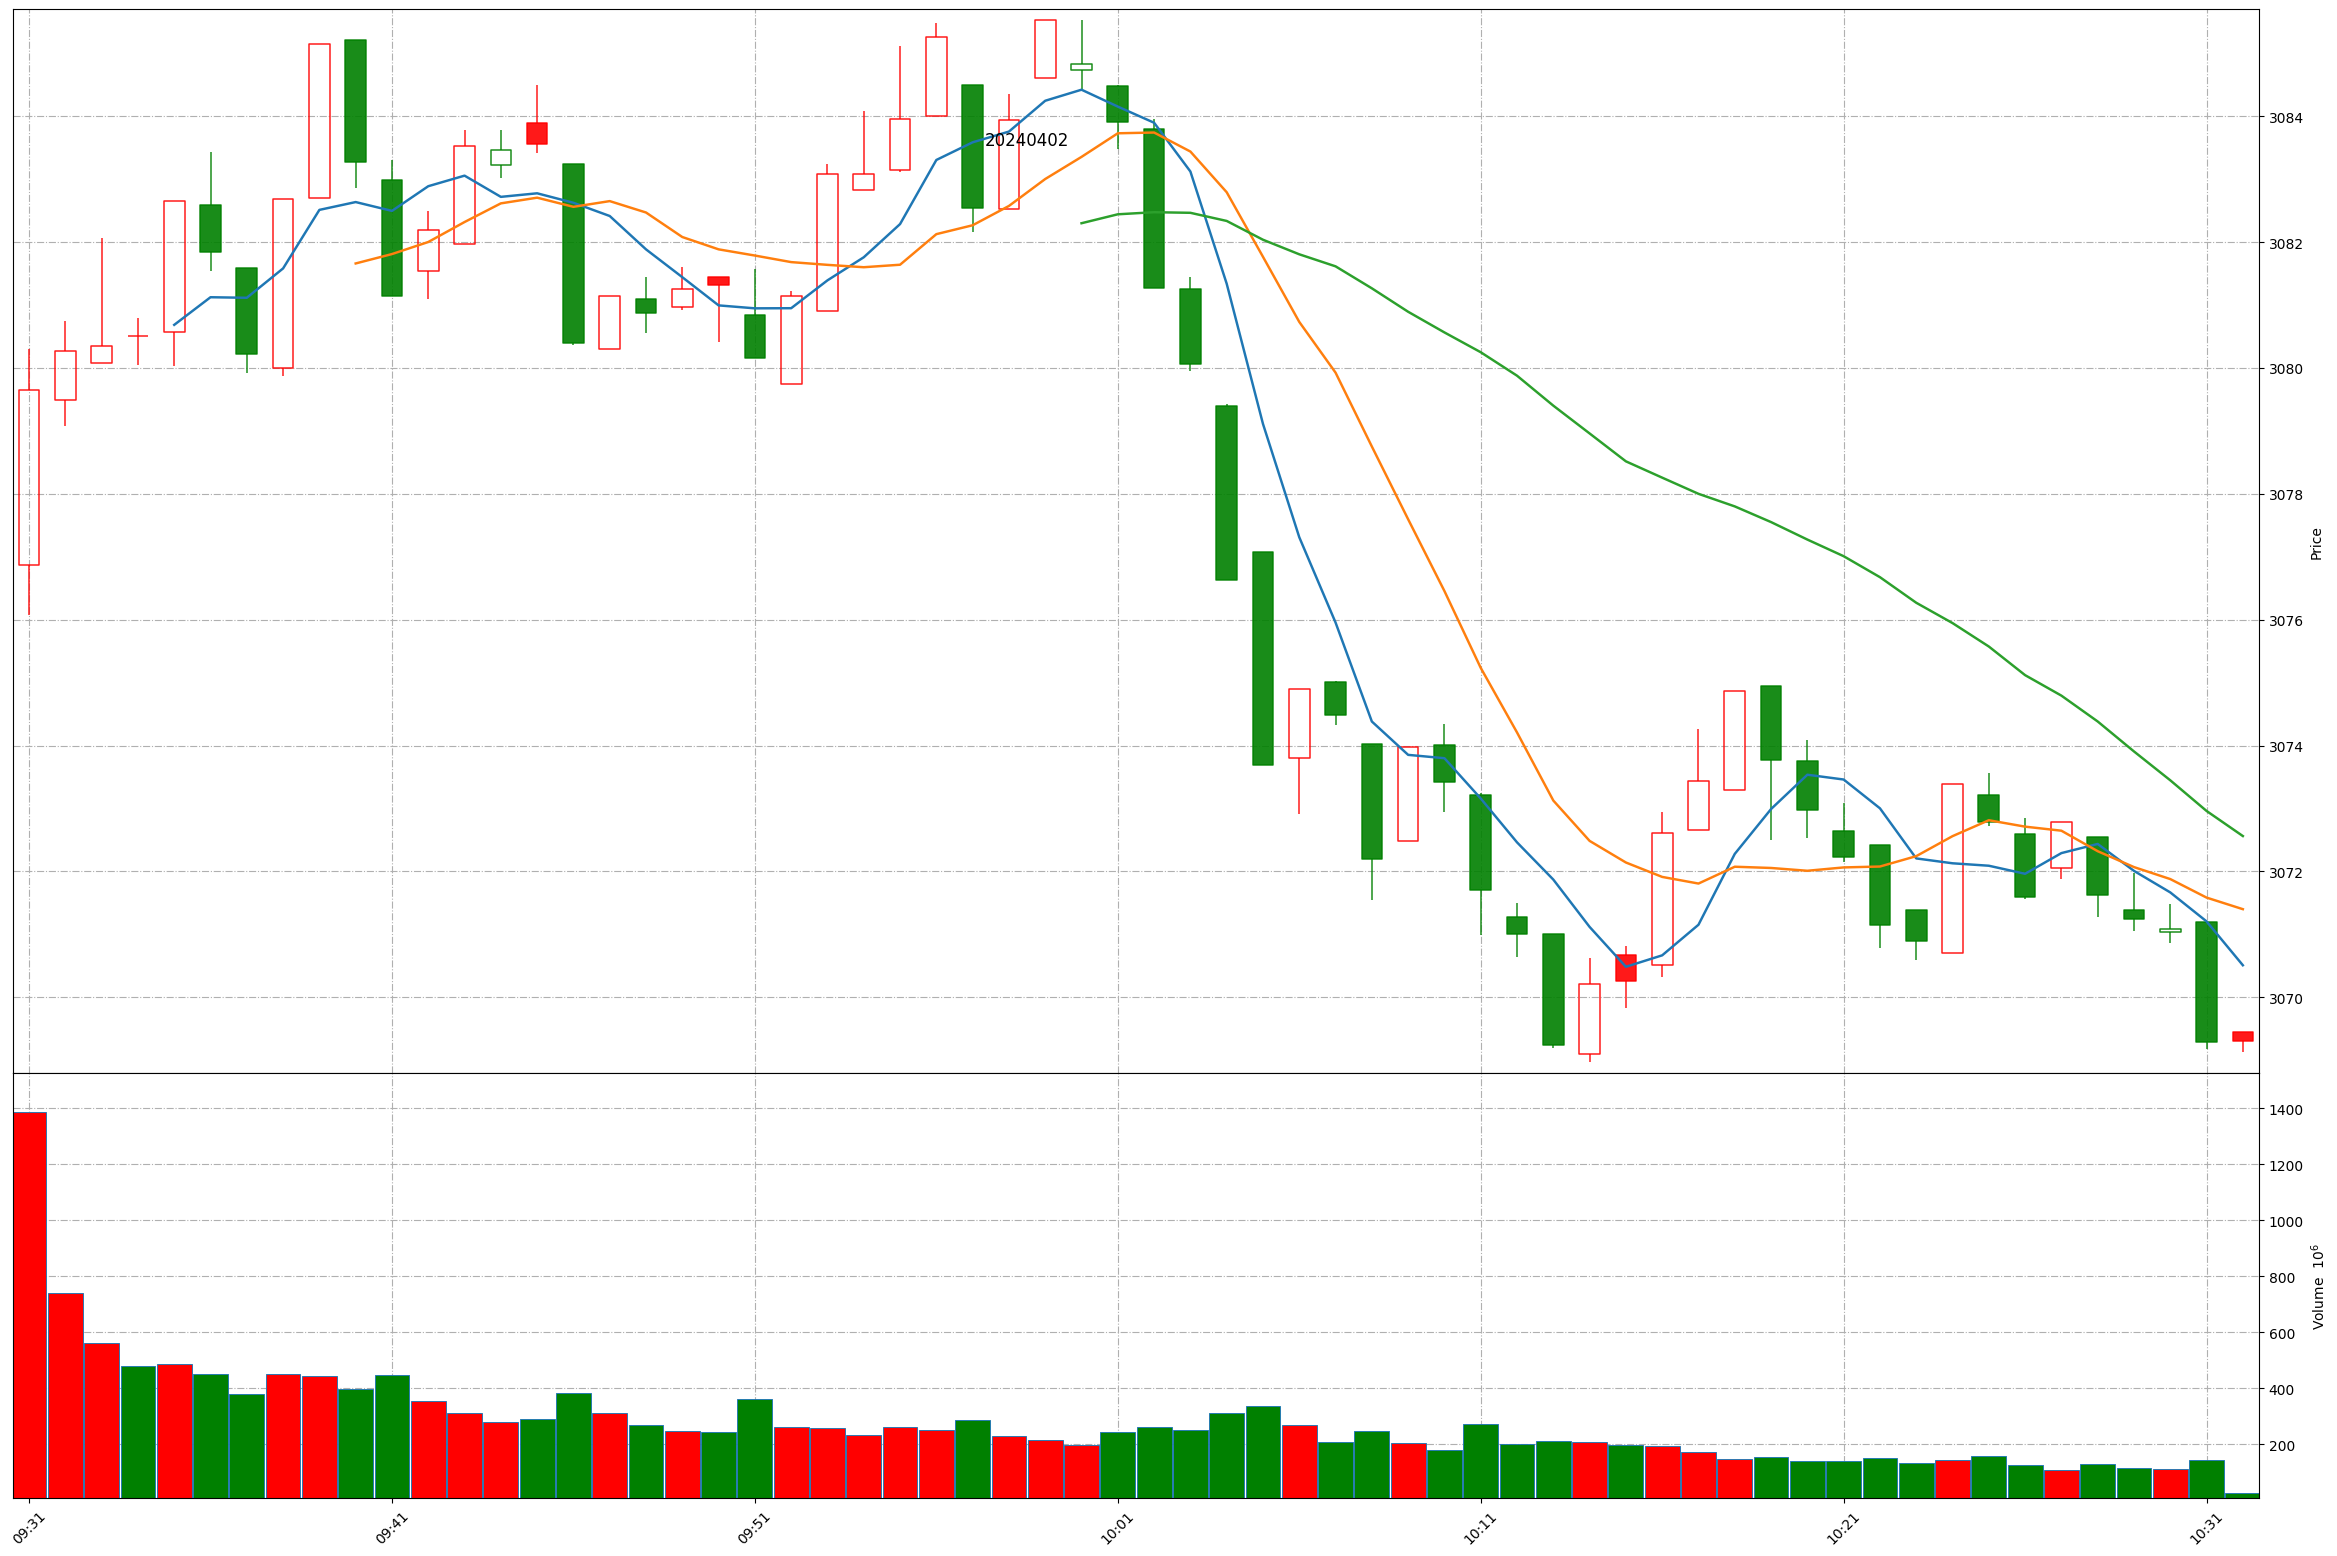
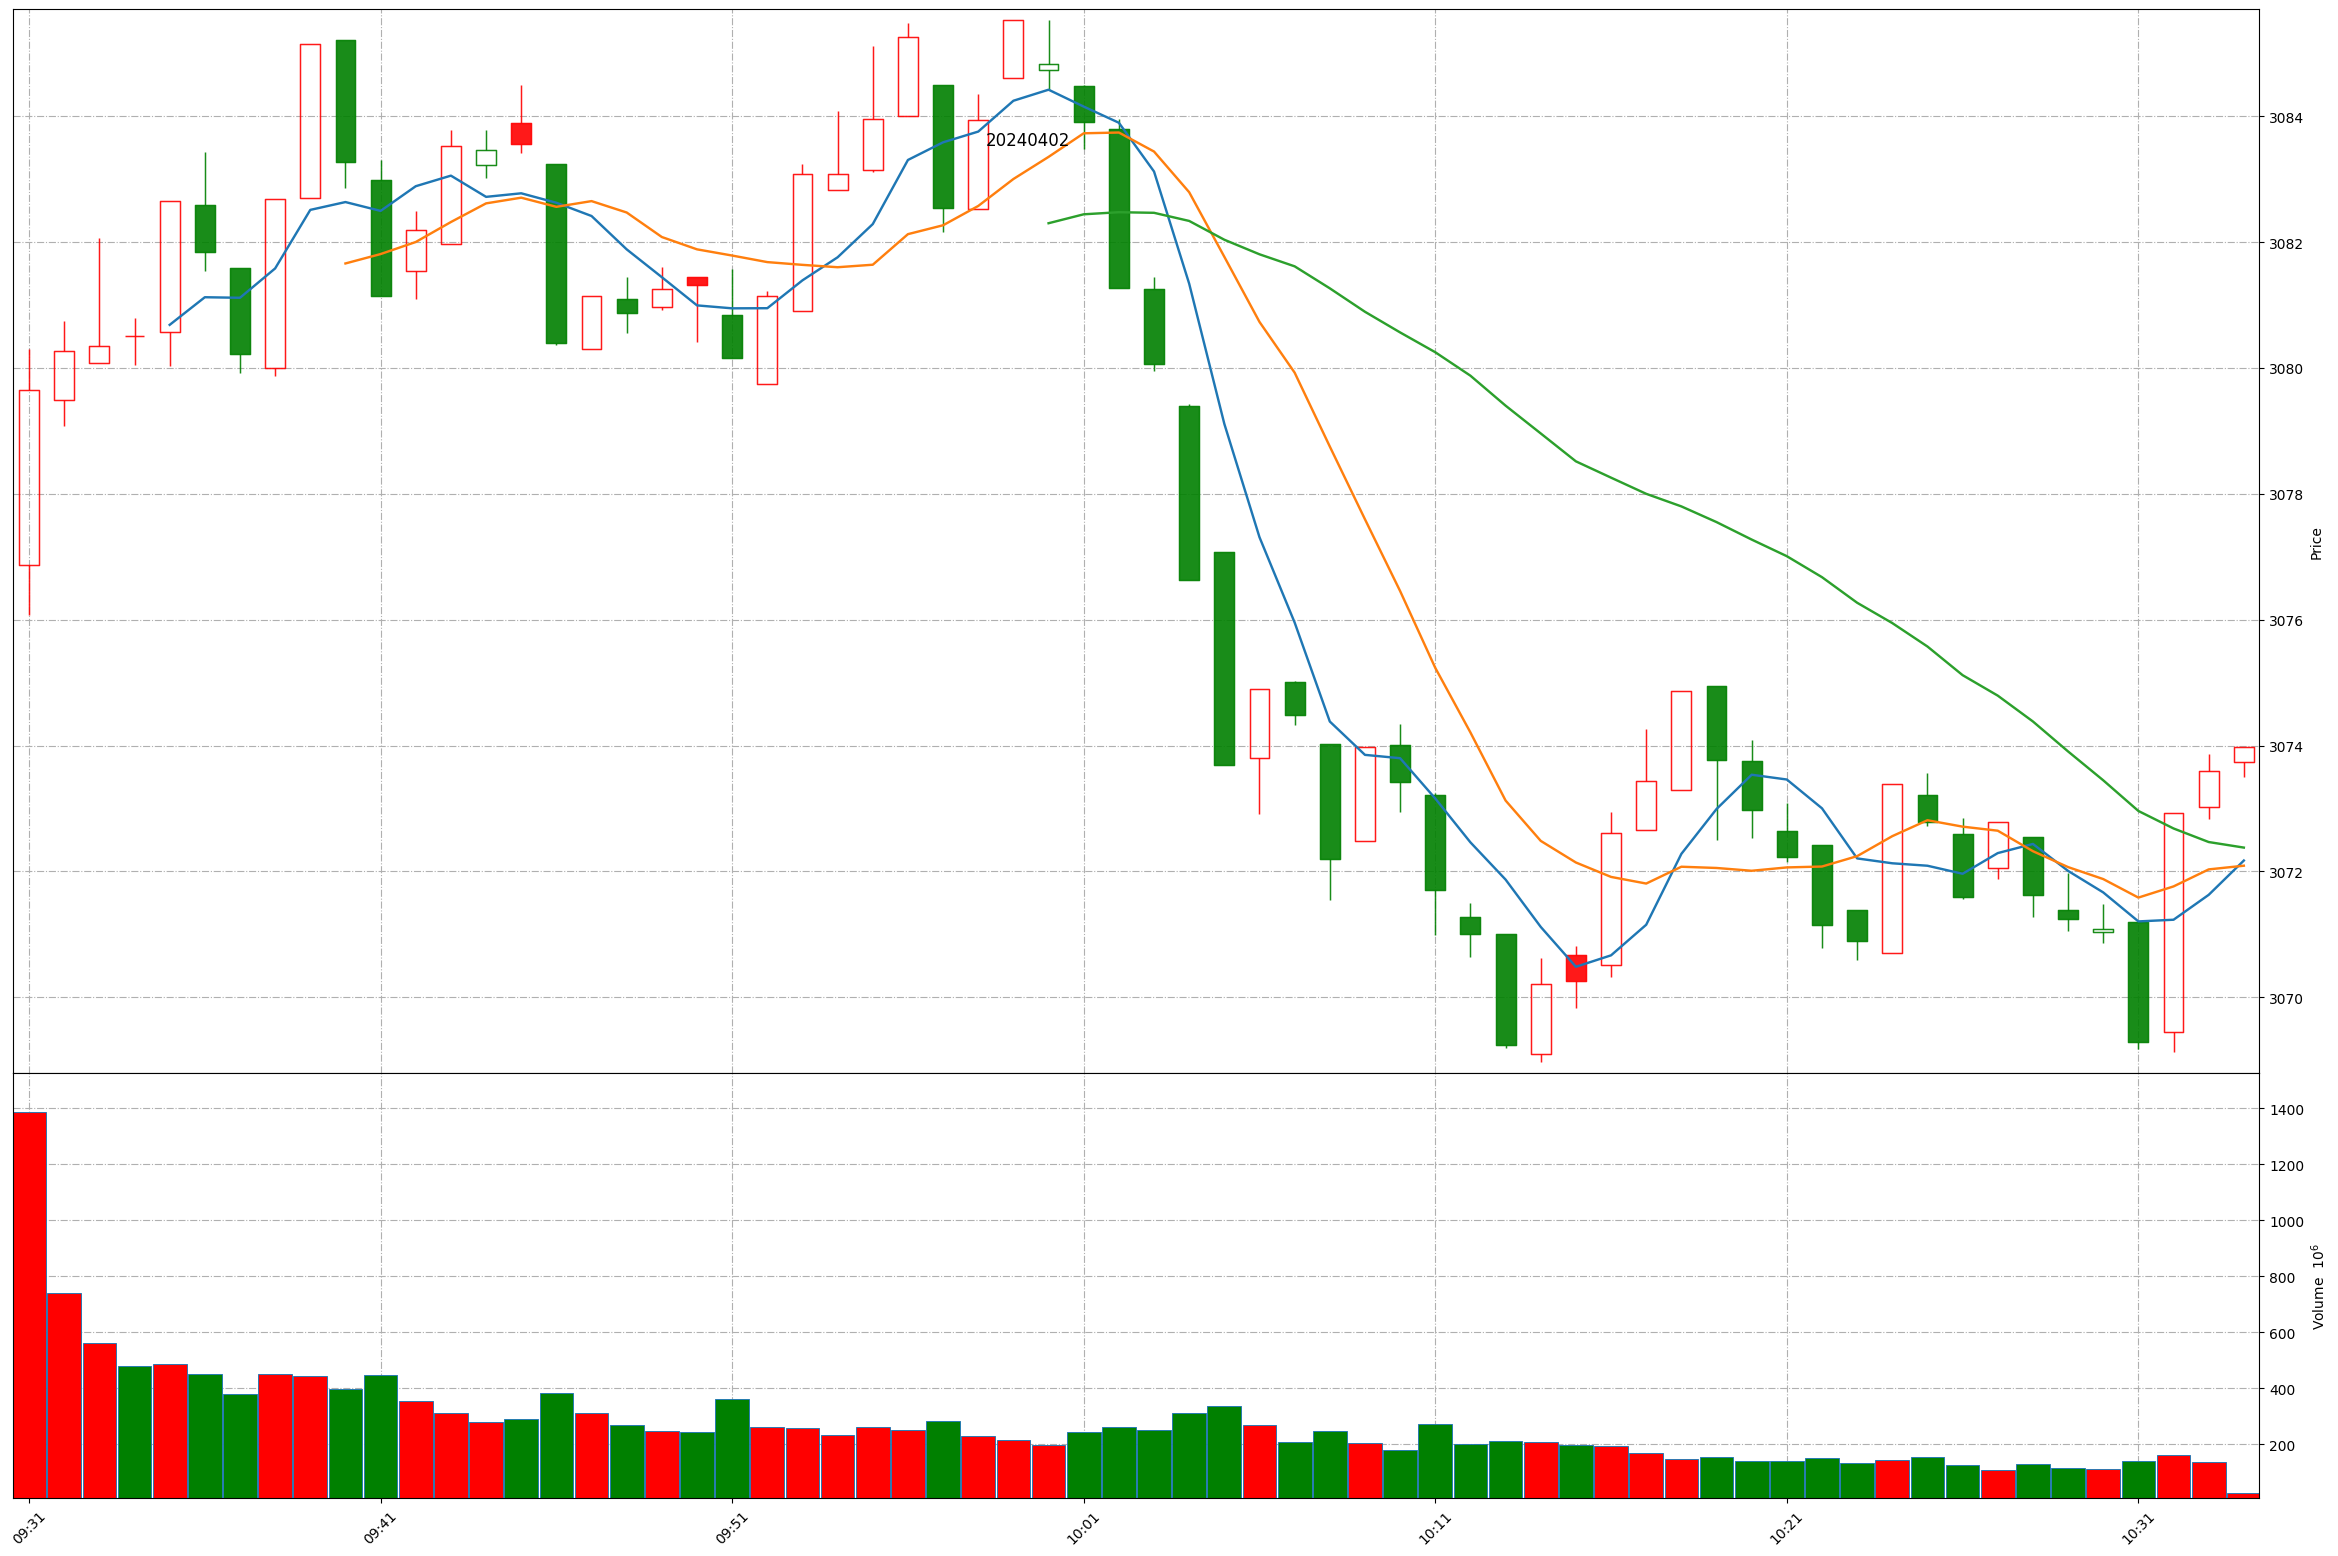
Github action update at 2024-04-02 10:33:40.

diff --git a/README.md b/README.md
@@ -1,11 +1,11 @@
 
 # Daily-A-share-market-quotes 每日 A 股指数（5min 更新）- 20240402
 
-### 上证指数 20240402 10:31
+### 上证指数 20240402 10:33
 ![](./fig/2024/4/20240402-sh000001.png)
 
-### 深证成指 20240402 10:31
+### 深证成指 20240402 10:33
 ![](./fig/2024/4/20240402-sz399001.png)
 
-### 北证50 20240402 10:31
+### 北证50 20240402 10:33
 ![](./fig/2024/4/20240402-bj899050.png)
